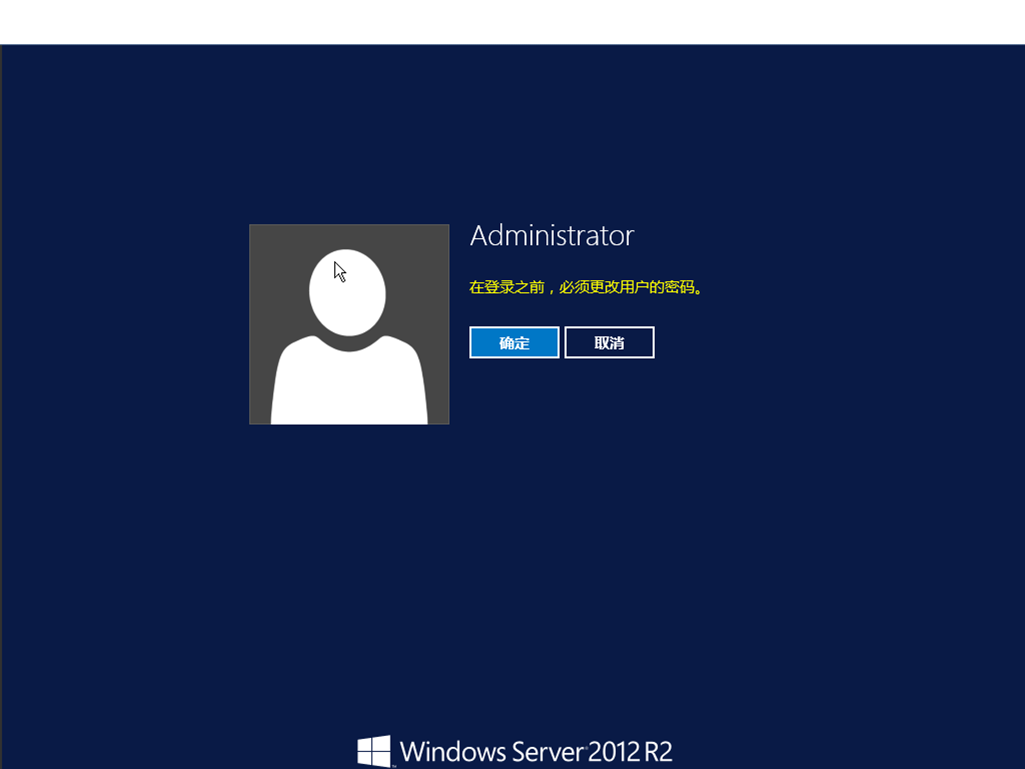
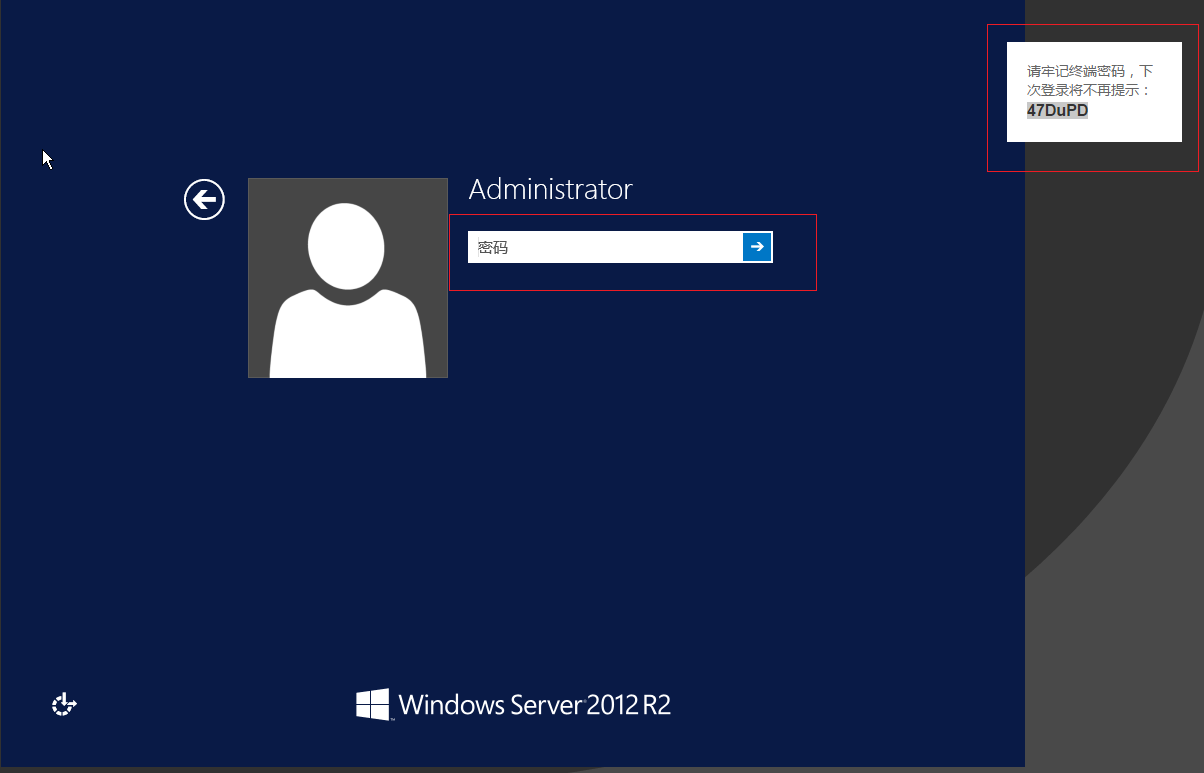
Enhancement: fix errors in virtual server document

diff --git a/平台服务/云主机/使用指南/windows主机基本操作.md b/平台服务/云主机/使用指南/windows主机基本操作.md
@@ -24,10 +24,7 @@ Windows云主机管理入口位于蜂巢首页的Windows主机服务选项。点
 
 ## 登录Windows云主机
 
-### 初次登录云主机
-
-
-如果是从网易蜂巢提供的基础镜像新创建的云主机，首次登录到该云主机，需要使用VNC控制台登录云主机进行系统初始化，设置管理员用户名和密码，之后才可以登录云主机内部。
+### VNC登录云主机 
 
 以Windows Server 2012R2镜像创建的一台云主机为例：
 
@@ -43,15 +40,13 @@ Windows云主机管理入口位于蜂巢首页的Windows主机服务选项。点
 
 ![](../image/Win主机_使用指南_登录云主机3.png)
 
-如果看到上述屏保页面，请点击页面右上方的【Send CtrlAltDel】
+如果看到上述屏保页面，请点击页面右上方的「Send CtrlAltDel」
 
 ![](../image/Win主机_使用指南_登录云主机4.png)
 
-进入登录页面。开始为你的云主机设置管理员密码。密码需要满足一定的复杂度才可通过。
+进入登录页面。输入创建云主机时指定的密码，
 
 ![](../image/Win主机_使用指南_登录云主机5.png)
-
-![](../image/Win主机_使用指南_登录云主机6.png)
 
 点击确定之后，即可登录进云主机内部：
 
@@ -59,9 +54,9 @@ Windows云主机管理入口位于蜂巢首页的Windows主机服务选项。点
 
 <span>Attention:</span><div class="alertContent">我们提供的Windows操作系统云主机都是未激活的版本，你需要自行购买序列号并在初始化过程中进行设置和激活，否则可能导致你的云主机无法正常使用。</div>
 
-### 非初次登录
+### 远程连接登录云主机
 
-如果是非首次登录，除上述通过VNC控制台 + 密码登录的方法之外，还可以通过远程连接的方式登录云主机。
+除上述通过VNC控制台 + 密码登录的方法之外，还可以通过远程连接的方式登录云主机。
 
 <span>Attention:</span><div class="alertContent">为了方便您的使用，我们已经默认打开了远程桌面登录功能，如果您不需要该功能，建议进行关闭。</div>
 
@@ -69,7 +64,7 @@ Windows云主机管理入口位于蜂巢首页的Windows主机服务选项。点
 
 如果没有给云主机绑定过公网IP，可以使用VPN连接 + 云主机私有网IP的方式访问云主机。
 
-关于如何使用VPN，可以参考 [如何使用蜂巢OpenVPN](https://c.163.com/wiki/index.php?title=%E5%A6%82%E4%BD%95%E4%BD%BF%E7%94%A8%E8%9C%82%E5%B7%A2OpenVPN)
+关于如何使用VPN，可以参考 [如何使用蜂巢OpenVPN](http://support.c.163.com/md.html#!容器服务/服务管理/使用技巧/如何使用蜂巢 OpenVPN.md)
 
 连接上了蜂巢VPN之后，打开windows远程桌面连接，输入云主机IP地址（可以在云主机详情页面上查看）
 
@@ -79,11 +74,11 @@ Windows云主机管理入口位于蜂巢首页的Windows主机服务选项。点
 
 ![](../image/Win主机_使用指南_非初次登录2.png)
 
-输入账户密码，点击【连接】，
+输入账户密码，点击「连接」，
 
 ![](../image/Win主机_使用指南_非初次登录3.png)
 
-在弹出的页面中选择【是】，即可通过远程连接登录到云主机，
+在弹出的页面中选择「是」，即可通过远程连接登录到云主机，
 
 ![](../image/Win主机_使用指南_非初次登录4.png)
 
@@ -96,7 +91,7 @@ Windows云主机管理入口位于蜂巢首页的Windows主机服务选项。点
 
 ![](../image/Win主机_使用指南_保存为镜像1.png)
 
-保存了自定义镜像之后，可以在云主机详情页面右上角，点击【Windows主机镜像】，查看自定义Windows主机镜像信息，并进行相关管理操作。
+保存了自定义镜像之后，可以在云主机详情页面右上角，点击「Windows主机镜像」，查看自定义Windows主机镜像信息，并进行相关管理操作。
 
 ![](../image/Win主机_使用指南_保存为镜像2.png)
 
@@ -109,14 +104,14 @@ Windows云主机管理入口位于蜂巢首页的Windows主机服务选项。点
 
 ## 设置云主机
 
-点击云主机详情页面上的【设置】，设置页面提供了对云主机相关信息的修改功能。
+点击云主机详情页面上的「设置」，设置页面提供了对云主机相关信息的修改功能。
 
 ![](../image/Win主机_使用指南_设置云主机1.png)
 
 
 ## 从镜像恢复
 
-点击云主机详情页面上的 【从镜像恢复】，即可使用将当前云主机系统盘从镜像恢复的功能。
+点击云主机详情页面上的 「从镜像恢复」，即可使用将当前云主机系统盘从镜像恢复的功能。
 
 你选择了目标镜像之后，将会立刻开始从该镜像恢复云主机。
 
@@ -126,18 +121,17 @@ Windows云主机管理入口位于蜂巢首页的Windows主机服务选项。点
 
 ![](../image/Win主机_使用指南_从镜像恢复2.png)
 
-<span>Attention:</span><div class="alertContent">云主机创建默认不开启公网，不挂载云硬盘，创建完成后，可以再在云主机详情页面在线绑定公网端口和挂载云硬盘。
+<span>Attention:</span><div class="alertContent">云主机创建默认不开启公网，不挂载云硬盘，创建完成后，可以再在云主机详情页面在线绑定公网端口和挂载云硬盘。</div>
 
 注意: 
 
-从镜像恢复云主机，云主机的vnc密码不变，原云主机公网端口仍然会绑定在该云主机上。
+* 从镜像恢复云主机，云主机的vnc密码不变，原云主机公网端口仍然会绑定在该云主机上。
 
-云硬盘中的数据仍然会保留，并且挂载在该云主机上，但是可能需要进入云主机中重新进行云硬盘初始化联机操作（比如云硬盘未分配盘符的情况），操作方法请参考[初始化云硬盘](http://support.c.163.com/md.html#!平台服务/Windows云主机/使用指南/挂载云硬盘.md#formatvolume)。
+* 云硬盘中的数据仍然会保留，并且挂载在该云主机上，但是可能需要进入云主机中重新进行云硬盘初始化联机操作（比如云硬盘未分配盘符的情况），操作方法请参考[初始化云硬盘](http://support.c.163.com/md.html#!平台服务/Windows云主机/使用指南/挂载云硬盘.md#formatvolume)。
 
-如果您是从网易蜂巢提供的基础镜像恢复的云主机，则Windows系统的管理员登录密码会改变，需要重新设置，请参考本页面的【初次登录云主机】
+* 如果您是从网易蜂巢提供的基础镜像恢复的云主机，则Windows系统的管理员登录密码会改变，需要重新设置。请使用设置云主机页面修改登录密码。之后才可使用远程连接登录云主机。
 
-如果是从您的自定义镜像恢复的云主机，则登录密码与自定义镜像保持一致。
-</div>
+* 如果是从您的自定义镜像恢复的云主机，则登录密码与自定义镜像保持一致。
 
 
 ## 性能监控
@@ -156,7 +150,7 @@ Windows云主机管理入口位于蜂巢首页的Windows主机服务选项。点
 
 ## 自定义镜像列表
 
-在云主机列表右上方点击【Windows 主机镜像】
+在云主机列表右上方点击「Windows 主机镜像」
 
 ![](../image/Win主机_使用指南_自定义镜像列表1.png)
 

diff --git a/平台服务/云主机/使用指南/挂载云硬盘.md b/平台服务/云主机/使用指南/挂载云硬盘.md
@@ -1,12 +1,12 @@
 # 挂载云硬盘
 
-在云主机详情页面，点击【挂载云硬盘】，可以为云主机挂载云硬盘。
+在云主机详情页面，点击「挂载云硬盘」，可以为云主机挂载云硬盘。
 
-如果你还没有云硬盘，就需要先创建一个。点击云主机详情页面上的【创建云硬盘】，或者页面左边的【云硬盘】标签，进入云硬盘管理页面，点击【创建云硬盘】，就可以开始创建操作。
+如果你还没有云硬盘，就需要先创建一个。点击云主机详情页面上的「创建云硬盘」，或者页面左边的「云硬盘」标签，进入云硬盘管理页面，点击「创建云硬盘」，就可以开始创建操作。
 
 ![](../image/Win主机_使用指南_挂载云硬盘1.png)
 
-填写好名称以及相关信息，适用范围需要选择 【Windows云主机】，然后点击【立即创建】。
+填写好名称以及相关信息，适用范围需要选择 「Windows云主机」，然后点击「立即创建」。
 
 ![](../image/Win主机_使用指南_挂载云硬盘2.png)
 
@@ -14,64 +14,64 @@
 
 ![](../image/Win主机_使用指南_挂载云硬盘3.png)
 
-如果你已经拥有了可用的云硬盘，可以在云主机详情页面直接点击【挂载云硬盘】，
+如果你已经拥有了可用的云硬盘，可以在云主机详情页面直接点击「挂载云硬盘」，
 
 ![](../image/Win主机_使用指南_挂载云硬盘4.png)
 
-在下拉列表里选择要挂载的云硬盘，点击【确定】即可将该云硬盘挂载到云主机。
+在下拉列表里选择要挂载的云硬盘，点击「确定」即可将该云硬盘挂载到云主机。
 
 ![](../image/Win主机_使用指南_挂载云硬盘5.png)
 
-如果绑定成功，在云硬盘管理页面中，可以看到该云硬盘的【挂载状态】变成【已挂载】
+如果绑定成功，在云硬盘管理页面中，可以看到该云硬盘的「挂载状态」变成「已挂载」
 
 对于新创建出来，初次被挂载的云硬盘，执行上面的挂载操作之后，该盘并不是立即可用的，你需要登陆进Windows云主机对它进行初始化操作。
 
-关于如何登陆云主机请参考：[基本操作](http://support.c.163.com/md.html#!平台服务/Windows云主机/使用指南/windows云主机基本操作.md)里的【登录Windows云主机】。
+关于如何登陆云主机请参考：[基本操作](http://support.c.163.com/md.html#!平台服务/Windows云主机/使用指南/windows云主机基本操作.md)里的「登录Windows云主机」。
 
 
 ## 初始化云硬盘
 
 <span>Attention:</span><div class="alertContent">该操作仅针对新创建的云硬盘，已经被初始化且完成过格式化过的云硬盘，则不需要再初始化，挂载到云主机后，联机即可使用。</div>
 
-首先登录进云主机。关于如何登陆云主机请参考：[基本操作](http://support.c.163.com/md.html#!平台服务/Windows云主机/使用指南/windows云主机基本操作.md)里的【登录Windows云主机】。
+首先登录进云主机。关于如何登陆云主机请参考：[基本操作](http://support.c.163.com/md.html#!平台服务/Windows云主机/使用指南/windows云主机基本操作.md)里的「登录Windows云主机」。
 
 以Windows Server 2012R2镜像创建的一台云主机为例：
 
-点击页面左下角的【开始】按钮，选择【管理工具】。
+点击页面左下角的「开始」按钮，选择「管理工具」。
 
 ![](../image/Win主机_使用指南_初始化云硬盘1.png)
 
-再选择【计算机管理】
+再选择「计算机管理」
 
 ![](../image/Win主机_使用指南_初始化云硬盘2.png)
 
-打开计算机管理面板，点击左侧的【磁盘管理】，在下方找到刚才在页面上挂载的云硬盘，右键点击磁盘名，在弹出菜单中选择【联机】，如果磁盘已经处于联机状态，可以直接转到下一步【初始化磁盘】。 
+打开计算机管理面板，点击左侧的「磁盘管理」，在下方找到刚才在页面上挂载的云硬盘，右键点击磁盘名，在弹出菜单中选择「联机」，如果磁盘已经处于联机状态，可以直接转到下一步「初始化磁盘」。 
 
 ![](../image/Win主机_使用指南_初始化云硬盘3.png)
 
-联机完成后，再右键点击磁盘名，选择【初始化磁盘】
+联机完成后，再右键点击磁盘名，选择「初始化磁盘」
 
 ![](../image/Win主机_使用指南_初始化云硬盘4.png)
 
-然后选择挂载的 磁盘2，点击【确定】（图中的磁盘1是config drive盘，初始化操作时请不要点选）
+然后选择挂载的 磁盘2，点击「确定」（图中的磁盘1是config drive盘，初始化操作时请不要点选）
 
 ![](../image/Win主机_使用指南_初始化云硬盘5.png)
 
-初始化磁盘完成后，右键点击磁盘名右边的区域，选择【新建简单卷】 
+初始化磁盘完成后，右键点击磁盘名右边的区域，选择「新建简单卷」 
 
 ** 注意：除简单卷之外,其它卷类型都未经测试，不建议使用，使用过程中出现问题, 技术人员无法提供技术支持。**
 
 ![](../image/Win主机_使用指南_初始化云硬盘6.png)
 
-一直点选【下一步】，在此过程中，系统会为该盘自动分配盘符。
+一直点选「下一步」，在此过程中，系统会为该盘自动分配盘符。
 
 ![](../image/Win主机_使用指南_初始化云硬盘7.png)
 
-最后点击【完成】，开始格式化操作，该操作需要一段时间完成，建议在一个盘格式化完成之后，再初始化操作下一个挂载的云硬盘，否则可能会导致云硬盘默认盘符冲突。
+最后点击「完成」，开始格式化操作，该操作需要一段时间完成，建议在一个盘格式化完成之后，再初始化操作下一个挂载的云硬盘，否则可能会导致云硬盘默认盘符冲突。
 
 ![](../image/Win主机_使用指南_初始化云硬盘8.png)
 
-格式化完成后，即可在【这台电脑】中看到该硬盘。
+格式化完成后，即可在「这台电脑」中看到该硬盘。
 
 ![](../image/Win主机_使用指南_初始化云硬盘9.png)
 

diff --git a/平台服务/云主机/使用指南/linux主机挂载云硬盘.md b/平台服务/云主机/使用指南/linux主机挂载云硬盘.md
@@ -1,38 +1,38 @@
 # 挂载云硬盘
 
-在云主机详情页面，点击【挂载云硬盘】，可以为云主机挂载云硬盘。
+在云主机详情页面，点击「挂载云硬盘」，可以为云主机挂载云硬盘。
 
-如果你还没有云硬盘，就需要先创建一个。点击云主机详情页面上的【创建云硬盘】，或者页面左边的【云硬盘】标签，进入云硬盘管理页面，点击【创建云硬盘】，就可以开始创建操作。
+如果你还没有云硬盘，就需要先创建一个。点击云主机详情页面上的「创建云硬盘」，或者页面左边的「云硬盘」标签，进入云硬盘管理页面，点击「创建云硬盘」，就可以开始创建操作。
 
 ![](../image/linux/linux主机_挂载云硬盘_1.PNG)
 
-填写好名称以及相关信息，适用范围需要选择 【云主机】，然后点击【立即创建】。
+填写好名称以及相关信息，适用范围需要选择 「云主机」，然后点击「立即创建」。
 
 ![](../image/linux/linux主机_挂载云硬盘_2.PNG)
 
 成功创建完成后，可以在云硬盘列表里看到它。
 
 
-如果你已经拥有了可用的云硬盘，可以在云主机详情页面直接点击【挂载云硬盘】，
+如果你已经拥有了可用的云硬盘，可以在云主机详情页面直接点击「挂载云硬盘」，
 
 ![](../image/linux/linux主机_挂载云硬盘_3.PNG)
 
-在下拉列表里选择要挂载的云硬盘，点击【确定】即可将该云硬盘挂载到云主机。
+在下拉列表里选择要挂载的云硬盘，点击「确定」即可将该云硬盘挂载到云主机。
 
 ![](../image/linux/linux主机_挂载云硬盘_10.PNG)
 
-如果绑定成功，在云硬盘管理页面中，可以看到该云硬盘的【挂载状态】变成【已挂载】
+如果绑定成功，在云硬盘管理页面中，可以看到该云硬盘的「挂载状态」变成「已挂载」
 
 对于新创建出来，初次被挂载的云硬盘，执行上面的挂载操作之后，该盘并不是立即可用的，你需要登录进Linux云主机对它进行初始化操作。
 
-关于如何登录云主机请参考：[基本操作](http://support.c.163.com/md.html#!平台服务/Windows云主机/使用指南/linux云主机/linux云主机基本操作.md)里的【登录Linux云主机】。
+关于如何登录云主机请参考：[基本操作](http://support.c.163.com/md.html#!平台服务/云主机/使用指南/linux主机基本操作.md)里的「登录Linux云主机」。
 
 
 ## 初始化云硬盘
 
-<span>Attention:</span><div class="alertContent">该操作仅针对新创建的云硬盘，已经被初始化且完成过格式化过的云硬盘，则不需要再格式化，在页面上挂载到云主机后，执行mount命令即可使用。</div>
+<span>Attention:</span><div class="alertContent">该操作仅针对新创建的云硬盘，已经被初始化且完成过格式化过的云硬盘，则不需要再格式化，在页面上挂载到云主机后，进入云主机里执行mount命令即可使用。</div>
 
-首先登录进云主机。关于如何登录云主机请参考：[基本操作](http://support.c.163.com/md.html#!平台服务/Windows云主机/使用指南/windows云主机基本操作.md)里的【登录Windows云主机】。
+首先登录进云主机。关于如何登录云主机请参考：[基本操作](http://support.c.163.com/md.html#!平台服务/云主机/使用指南/linux主机基本操作.md)里的「登录Linux云主机」。
 
 以Ubuntu 16.04镜像创建的一台云主机为例：
 

diff --git a/平台服务/云主机/使用指南/linux主机解绑云硬盘.md b/平台服务/云主机/使用指南/linux主机解绑云硬盘.md
@@ -5,7 +5,7 @@
 
 </div>
 
-在云主机详情页面，对需要卸载的云硬盘，点击页面右边的【解绑】。
+在云主机详情页面，对需要卸载的云硬盘，点击页面右边的「解绑」。
 
 ![](../image/Win主机_使用指南_解绑云硬盘1.png)
 
@@ -24,7 +24,7 @@
 
 如果长时间处于“挂载中”的挂载状态，有可能是挂载过程中出错，需要联系工单系统进行处理。
 
-注意：删除云主机，会自动将挂载到该云主机的云硬盘卸载掉，但并不会删除。
+* 注意：删除云主机，会自动将挂载到该云主机的云硬盘卸载掉，但并不会删除。
 
 更多关于云硬盘的相关操作请参考：[云硬盘相关操作](http://support.c.163.com/md.html#!平台服务/云硬盘/使用指南/创建云硬盘.md)
 

diff --git a/平台服务/云主机/使用指南/linux主机绑定公网IP.md b/平台服务/云主机/使用指南/linux主机绑定公网IP.md
@@ -1,6 +1,6 @@
 # 绑定公网IP
 
-点击云主机详情页面上的【绑定公网IP】，可以为你的云主机绑定一个公网IP。
+点击云主机详情页面上的「绑定公网IP」，可以为你的云主机绑定一个公网IP。
 
 ![](../image/Win主机_使用指南_绑定公网IP1.png)
 
@@ -8,7 +8,7 @@
 
 ![](../image/Win主机_使用指南_绑定公网IP2.png)
 
-如果你还没有公网IP，点击【绑定公网IP】后，系统会提示你需要新创建一个公网IP。
+如果你还没有公网IP，点击「绑定公网IPv」后，系统会提示你需要新创建一个公网IP。
 
 ![](../image/Win主机_使用指南_绑定公网IP3.png)
 

diff --git a/平台服务/云主机/使用指南/绑定公网IP.md b/平台服务/云主机/使用指南/绑定公网IP.md
@@ -1,6 +1,6 @@
 # 绑定公网IP
 
-点击云主机详情页面上的【绑定公网IP】，可以为你的云主机绑定一个公网IP。
+点击云主机详情页面上的「绑定公网IP」，可以为你的云主机绑定一个公网IP。
 
 ![](../image/Win主机_使用指南_绑定公网IP1.png)
 
@@ -8,7 +8,7 @@
 
 ![](../image/Win主机_使用指南_绑定公网IP2.png)
 
-如果你还没有公网IP，点击【绑定公网IP】后，系统会提示你需要新创建一个公网IP。
+如果你还没有公网IP，点击「绑定公网IP」后，系统会提示你需要新创建一个公网IP。
 
 ![](../image/Win主机_使用指南_绑定公网IP3.png)
 

diff --git a/平台服务/云主机/使用指南/解绑云硬盘.md b/平台服务/云主机/使用指南/解绑云硬盘.md
@@ -6,7 +6,7 @@
 否则，直接从界面上卸载，会导致云主机操作系统异常，可能会发生蓝屏以及其他问题。
 </div>
 
-在云主机详情页面，对需要卸载的云硬盘，点击页面右边的【解绑】。
+在云主机详情页面，对需要卸载的云硬盘，点击页面右边的「解绑」。
 
 ![](../image/Win主机_使用指南_解绑云硬盘1.png)
 
